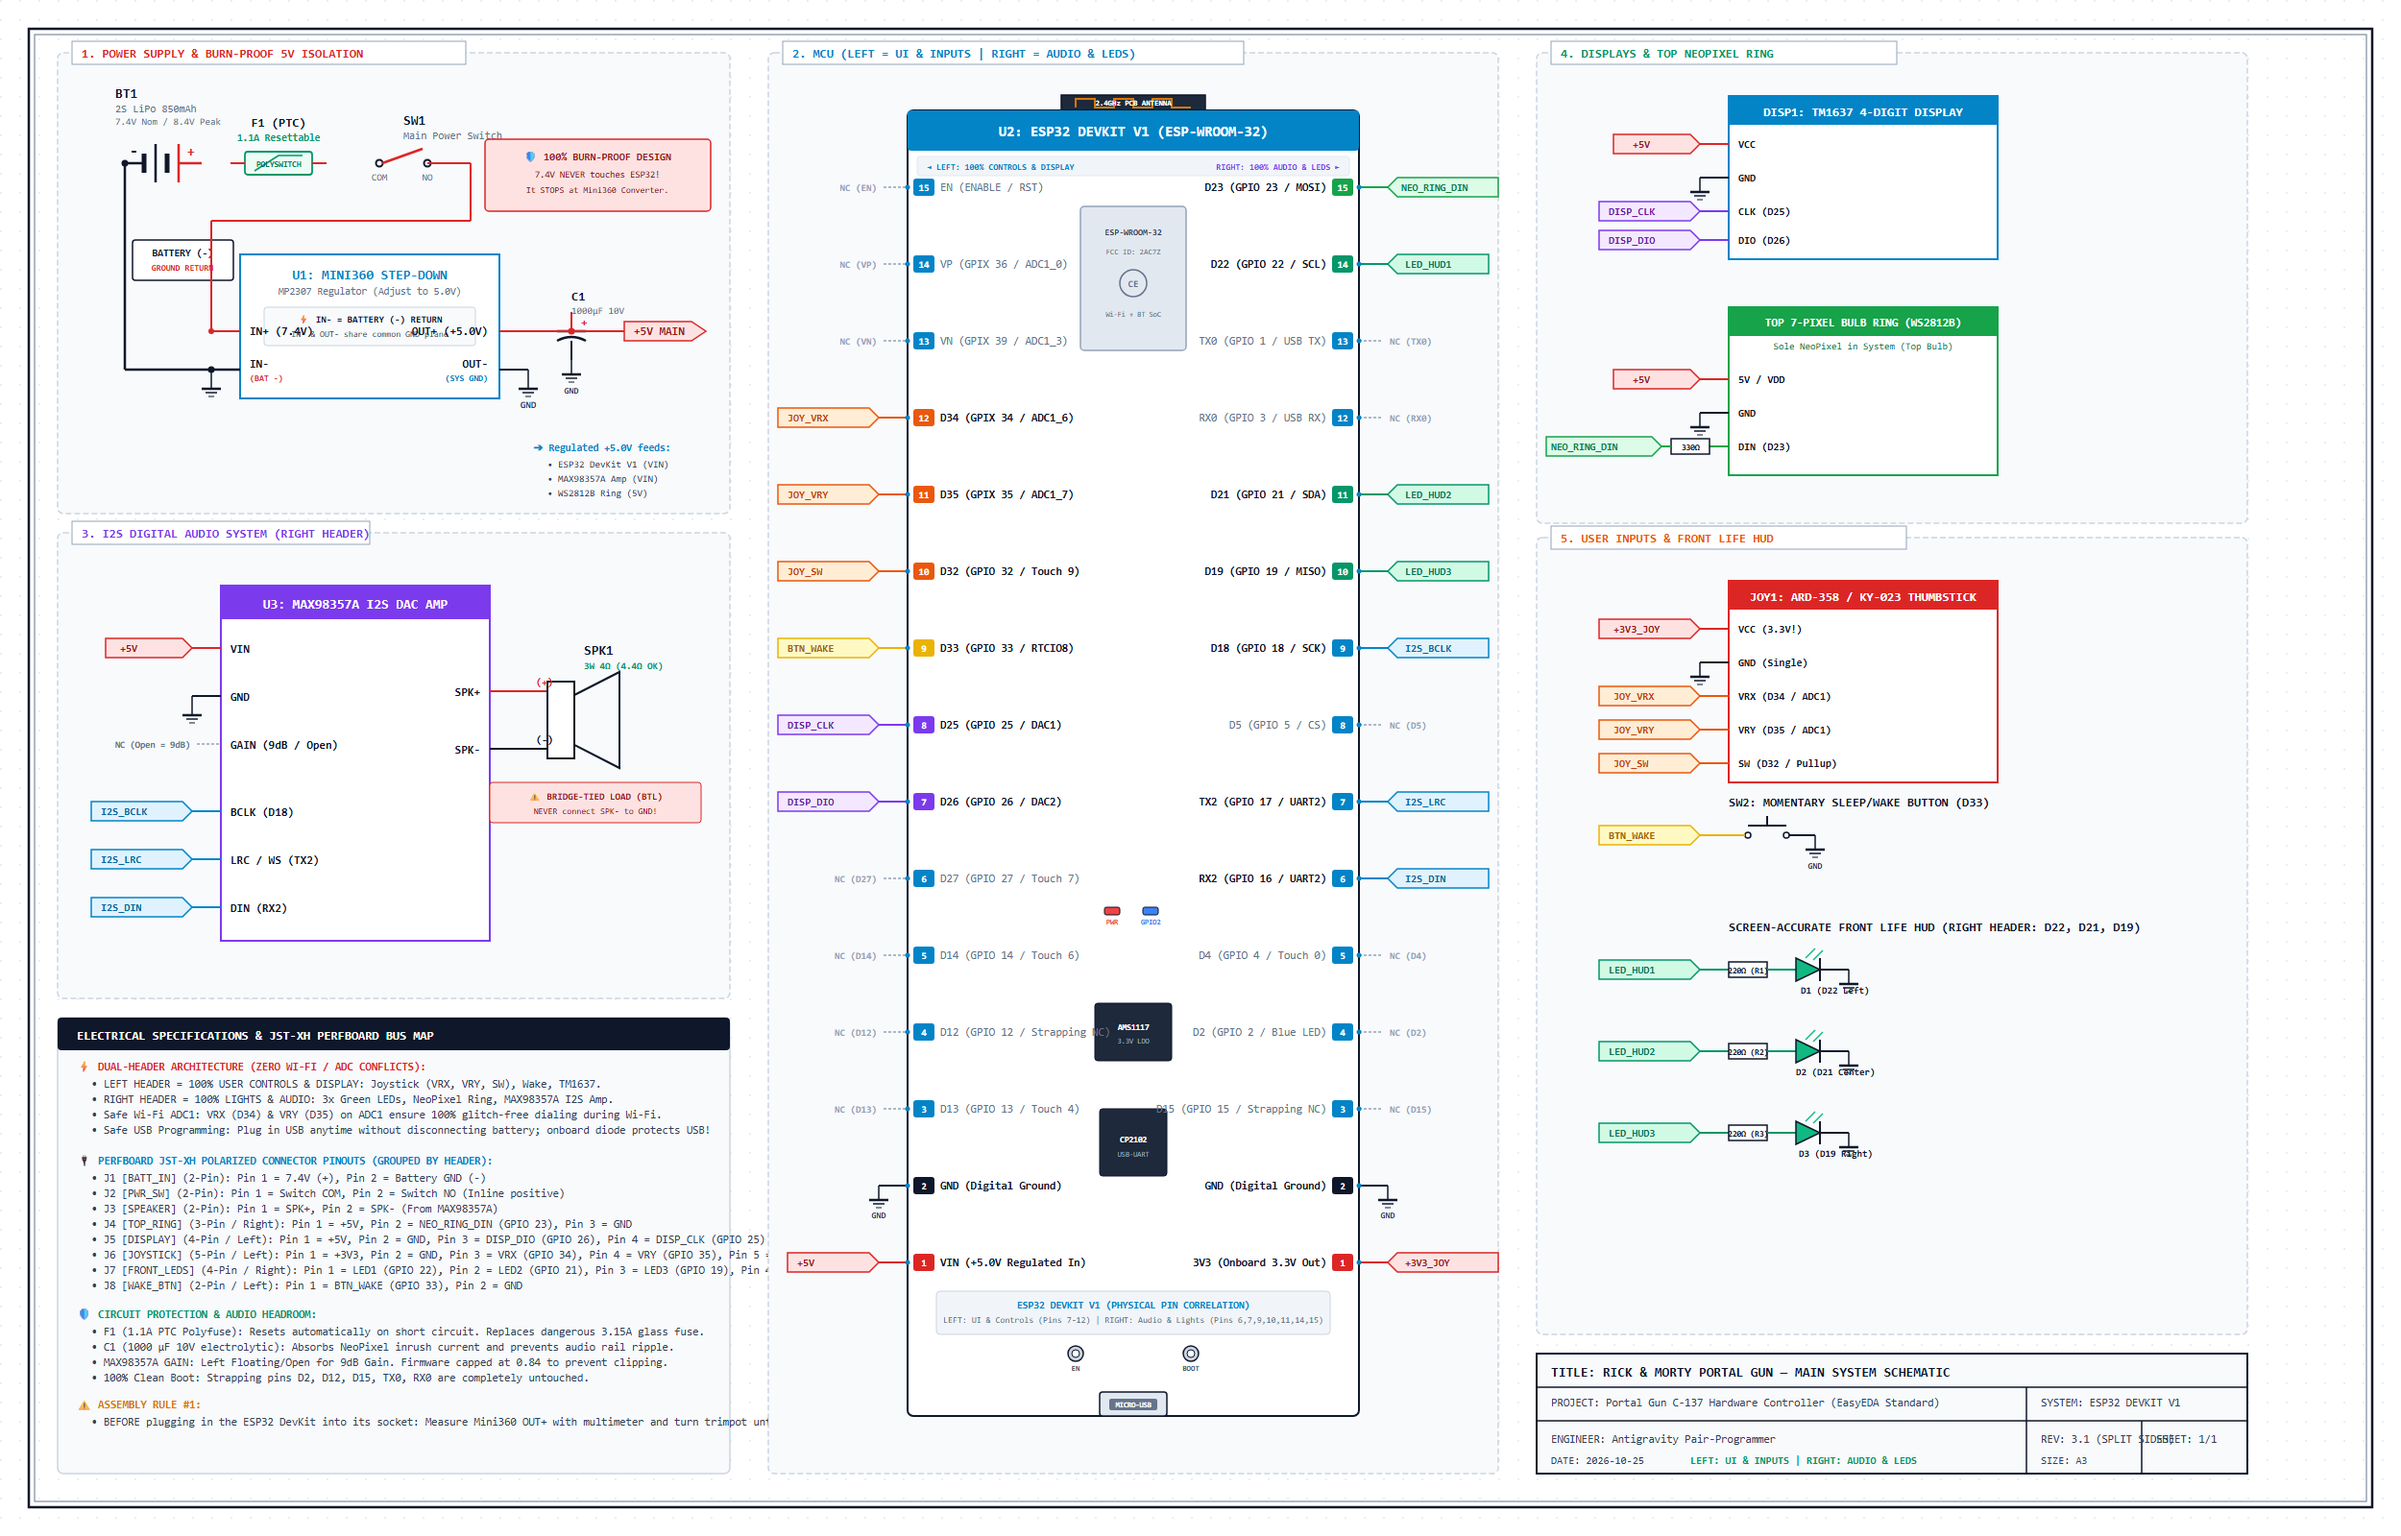
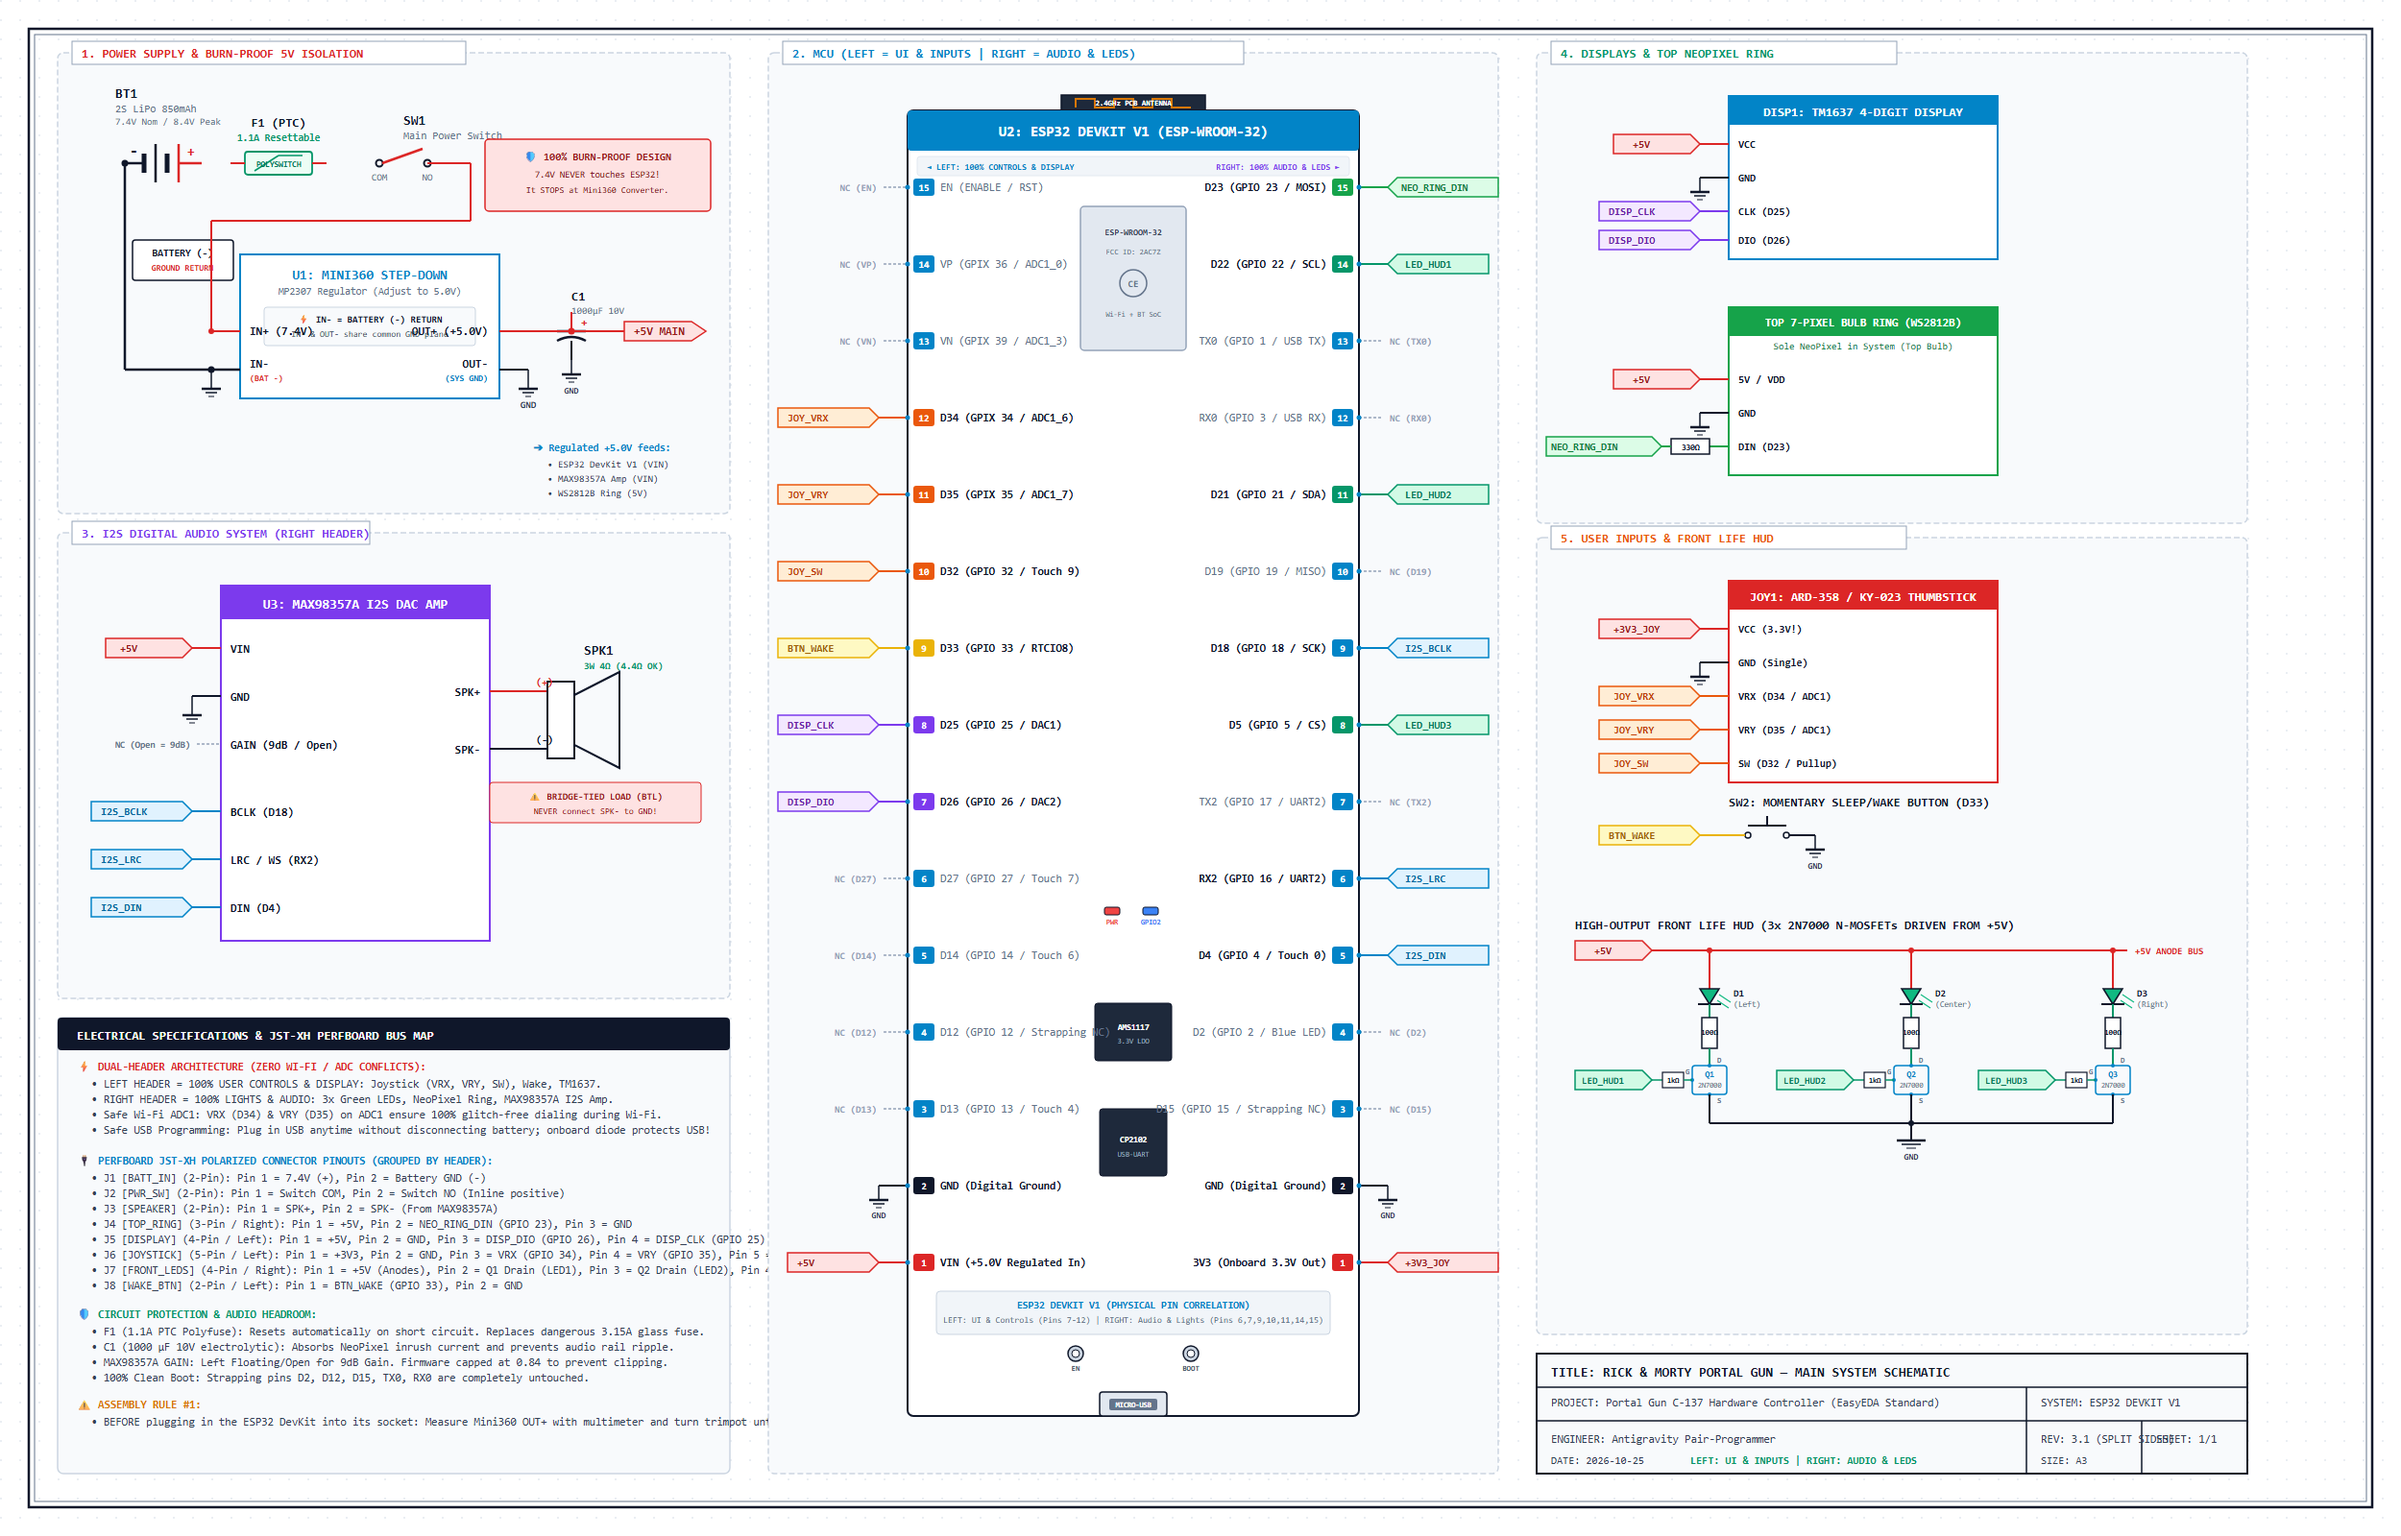
change to transistors

diff --git a/include/pins.h b/include/pins.h
@@ -36,12 +36,12 @@ namespace Pins {
     //  [13]: VN   (GPIO 39 / Spare)      |      | [13]: TX0  (GPIO 1  / USB TX)
     //  [12]: D34  (GPIO 34) -> JOY_VRX   |      | [12]: RX0  (GPIO 3  / USB RX)
     //  [11]: D35  (GPIO 35) -> JOY_VRY   |      | [11]: D21  (GPIO 21) -> LED_HUD2 (Center)
-    //  [10]: D32  (GPIO 32) -> JOY_SW    |      | [10]: D19  (GPIO 19) -> LED_HUD3 (Right)
+    //  [10]: D32  (GPIO 32) -> JOY_SW    |      | [10]: D19  (GPIO 19 / Spare)
     //  [ 9]: D33  (GPIO 33) -> BTN_WAKE  |      | [ 9]: D18  (GPIO 18) -> I2S_BCLK
-    //  [ 8]: D25  (GPIO 25) -> DISP_CLK  |      | [ 8]: D5   (GPIO 5  / Spare)
-    //  [ 7]: D26  (GPIO 26) -> DISP_DIO  |      | [ 7]: TX2  (GPIO 17) -> I2S_LRC
-    //  [ 6]: D27  (GPIO 27 / Spare)      |      | [ 6]: RX2  (GPIO 16) -> I2S_DIN
-    //  [ 5]: D14  (GPIO 14 / Spare)      |      | [ 5]: D4   (GPIO 4  / Spare)
+    //  [ 8]: D25  (GPIO 25) -> DISP_CLK  |      | [ 8]: D5   (GPIO 5)  -> LED_HUD3 (Right)
+    //  [ 7]: D26  (GPIO 26) -> DISP_DIO  |      | [ 7]: TX2  (GPIO 17 / Spare)
+    //  [ 6]: D27  (GPIO 27 / Spare)      |      | [ 6]: RX2  (GPIO 16) -> I2S_LRC
+    //  [ 5]: D14  (GPIO 14 / Spare)      |      | [ 5]: D4   (GPIO 4)  -> I2S_DIN
     //  [ 4]: D12  (GPIO 12 / Strapping)  |      | [ 4]: D2   (GPIO 2  / Blue LED)
     //  [ 3]: D13  (GPIO 13 / Spare)      |      | [ 3]: D15  (GPIO 15 / Strapping)
     //  [ 2]: GND  (Ground Return Bus)    |      | [ 2]: GND  (Ground Return Bus)
@@ -57,14 +57,14 @@ namespace Pins {
     constexpr int DisplayClk  = 25;   // Pin 8:  D25 (GPIO 25) - TM1637 Display Clock (CLK)
     constexpr int DisplayDio  = 26;   // Pin 7:  D26 (GPIO 26) - TM1637 Display Data (DIO)
 
-    // --- Audio & Lighting Actuators (Right Header: Pins 6, 7, 9, 10, 11, 14, 15) ---
-    constexpr int GreenLed1   = 22;   // Pin 14: D22 (GPIO 22) - Left Green LED PWM (via 220Ω resistor)
-    constexpr int GreenLed2   = 21;   // Pin 11: D21 (GPIO 21) - Center Green LED PWM (via 220Ω resistor)
-    constexpr int GreenLed3   = 19;   // Pin 10: D19 (GPIO 19) - Right Green LED PWM (via 220Ω resistor)
+    // --- Audio & Lighting Actuators (Right Header: Pins 5, 6, 8, 9, 11, 14, 15) ---
+    constexpr int GreenLed1   = 22;   // Pin 14: D22 (GPIO 22) - Left Green LED Gate (via 1kΩ to 2N7000 MOSFET)
+    constexpr int GreenLed2   = 21;   // Pin 11: D21 (GPIO 21) - Center Green LED Gate (via 1kΩ to 2N7000 MOSFET)
+    constexpr int GreenLed3   = 5;    // Pin 8:  D5  (GPIO 5)  - Right Green LED Gate (via 1kΩ to 2N7000 MOSFET)
     constexpr int PortalData  = 23;   // Pin 15: D23 (GPIO 23) - Top 7-Pixel WS2812B Ring DIN (via 330Ω resistor)
     constexpr int I2sBclk     = 18;   // Pin 9:  D18 (GPIO 18) - MAX98357A I2S Bit Clock (BCLK)
-    constexpr int I2sLrc      = 17;   // Pin 7:  TX2 (GPIO 17) - MAX98357A Word Select (LRC/WS)
-    constexpr int I2sData     = 16;   // Pin 6:  RX2 (GPIO 16) - MAX98357A Serial Data In (DIN)
+    constexpr int I2sLrc      = 16;   // Pin 6:  RX2 (GPIO 16) - MAX98357A Word Select (LRC/WS)
+    constexpr int I2sData     = 4;    // Pin 5:  D4  (GPIO 4)  - MAX98357A Serial Data In (DIN)
 
 #endif
 

diff --git a/src/modules/portal_gun.cpp b/src/modules/portal_gun.cpp
@@ -12,6 +12,7 @@
 #include "soundboard_data.h"
 #include <Arduino.h>
 #include <esp_sleep.h>
+#include <driver/gpio.h>
 
 PortalGun portalGun;
 
@@ -1652,6 +1653,20 @@ void PortalGun::handleDeepSleep() {
     display.clear();
     for (int i = 0; i < 3; i++) leds.setGreen(i, 0.0f);
     leds.clearPortal();
+
+    // Lock 2N7000 MOSFET gate pins LOW with internal 45kΩ pull-down held during Deep Sleep
+    // so external 100kΩ Gate-to-Source pull-downs are not required
+    const int hudPins[3] = {Pins::GreenLed1, Pins::GreenLed2, Pins::GreenLed3};
+    for (int p : hudPins) {
+        ledcDetachPin(p);
+        pinMode(p, OUTPUT);
+        digitalWrite(p, LOW);
+        gpio_num_t gp = (gpio_num_t)digitalPinToGPIONumber(p);
+        gpio_pullup_dis(gp);
+        gpio_pulldown_en(gp);
+        gpio_hold_en(gp);
+    }
+    gpio_deep_sleep_hold_en();
     
     Serial.println("Entering Deep Sleep...");
     

diff --git a/src/modules/leds.cpp b/src/modules/leds.cpp
@@ -3,6 +3,7 @@
 #include "config.h"
 #include <Arduino.h>
 #include <Adafruit_NeoPixel.h>
+#include <driver/gpio.h>
 
 LedSystem leds;
 
@@ -10,6 +11,16 @@ static Adafruit_NeoPixel strip(Config::PORTAL_LED_COUNT, Pins::PortalData, NEO_G
 static bool torchActive = false;
 
 void LedSystem::begin() {
+    // Release any deep-sleep pad hold and enable internal 45kΩ pull-downs
+    // so 2N7000 MOSFET gates never float even without external 100kΩ resistors
+    const int hudPins[3] = {Pins::GreenLed1, Pins::GreenLed2, Pins::GreenLed3};
+    for (int p : hudPins) {
+        gpio_num_t gp = (gpio_num_t)digitalPinToGPIONumber(p);
+        gpio_hold_dis(gp);
+        gpio_pullup_dis(gp);
+        gpio_pulldown_en(gp);
+    }
+
     // Setup green LED PWM channels
     // Using ledc framework for ESP32
     ledcSetup(0, 5000, 8); // Channel 0, 5 kHz, 8-bit resolution
